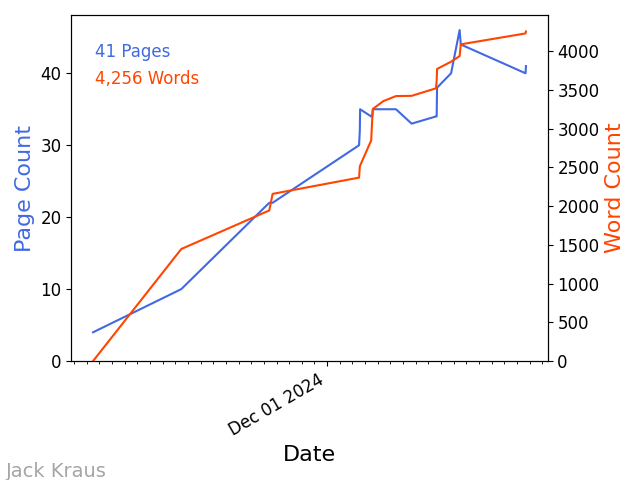
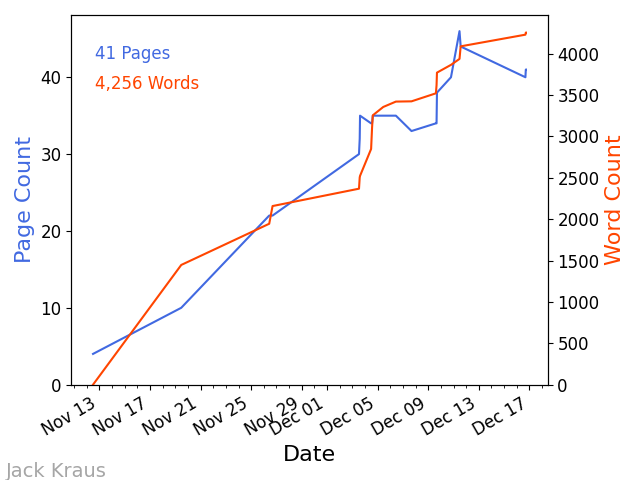
adjusted formatting for progress tracking

diff --git a/progressTracking/plotProgress.py b/progressTracking/plotProgress.py
@@ -47,7 +47,7 @@ plt.close()
 # Combined Plot
 months = mdates.MonthLocator()  # every month
 days = mdates.DayLocator()  # every dat
-date_fmt = mdates.DateFormatter('%b %d %Y')
+date_fmt = mdates.DateFormatter('%b %d')
 
 fig, ax = plt.figure(), plt.gca()
 ax2= ax.twinx()
@@ -63,7 +63,7 @@ ax2.set_ylim(ymin=0)
 plt.annotate("{:,d} Pages".format(current_pagecount), xy=(.05,.88), xycoords="axes fraction",color=pc_color, fontsize=12)
 plt.annotate("{:,d} Words".format(current_wordcount), xy=(.05,.8), xycoords="axes fraction",color=wc_color, fontsize=12)
 
-ax.xaxis.set_major_locator(months)
+# ax.xaxis.set_major_locator(months)
 ax.xaxis.set_minor_locator(days)
 ax.xaxis.set_major_formatter(date_fmt)
 
